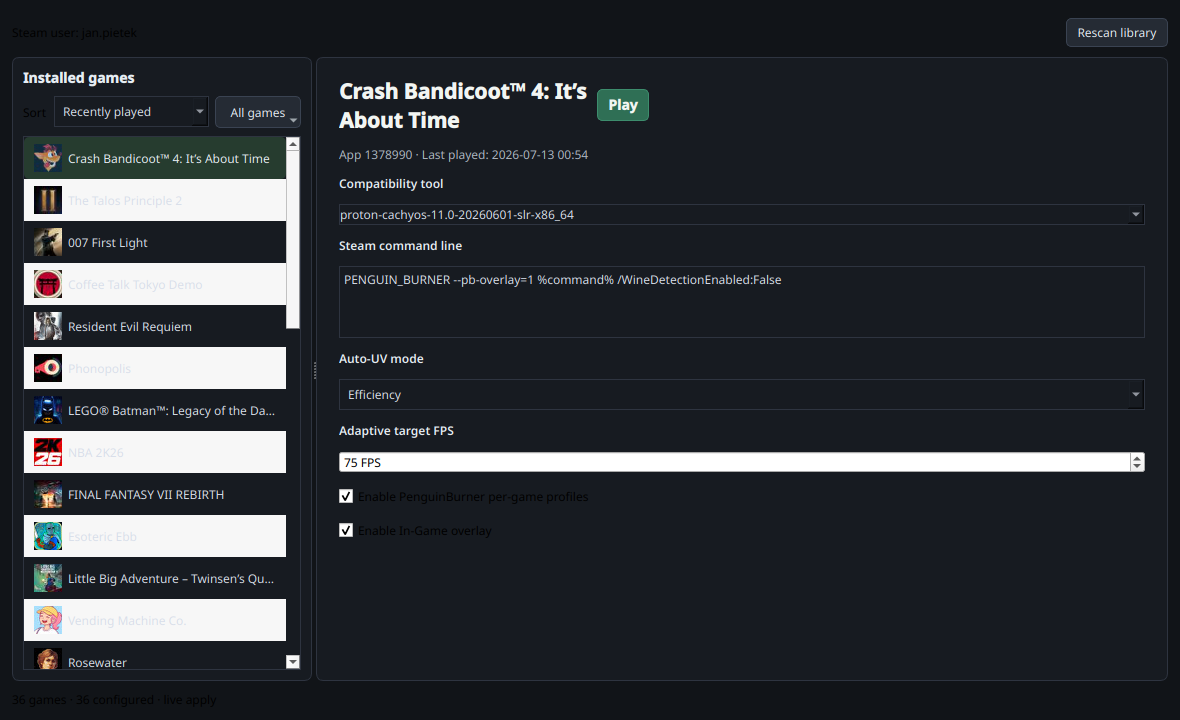
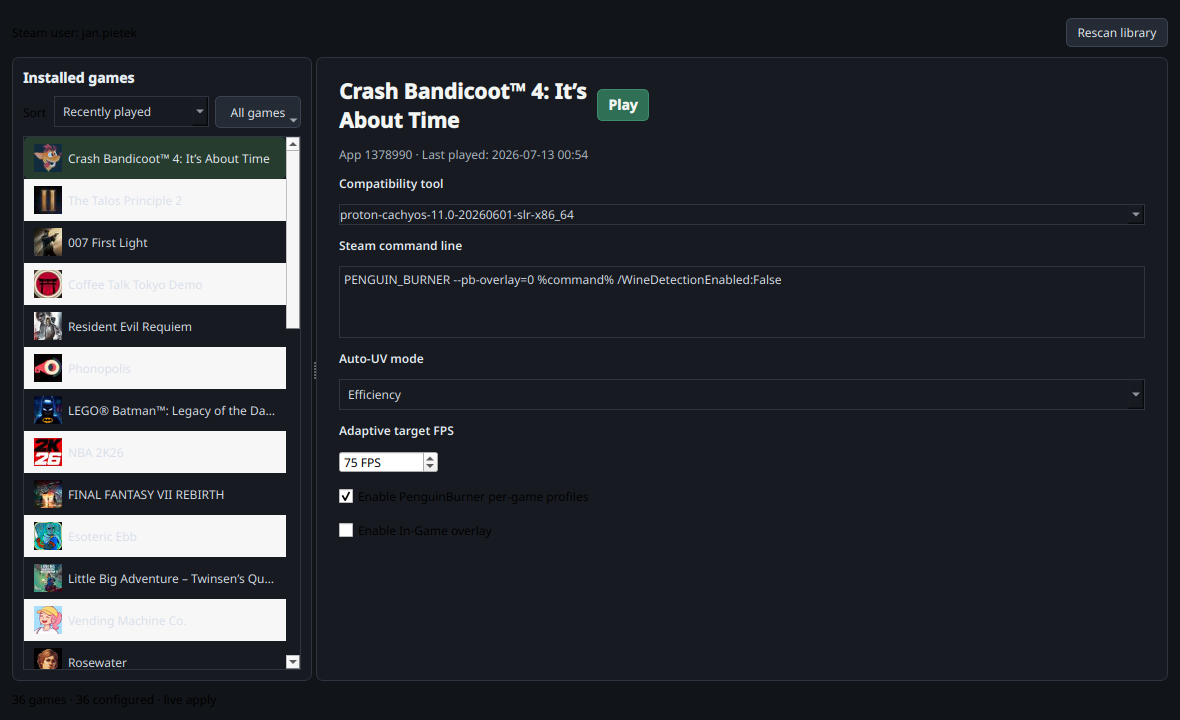
Size the per-game adaptive FPS box to its value, not the pane
The Adaptive target FPS spinbox stretched across the whole Steam details
pane. Give it a fixed width sized for its widest value ("1000 FPS") and
left-align it in its own row. Refresh the README screenshot to match.

Changed region(s): [[0.3661, 0.6111, 0.9763, 0.6722]]

diff --git a/ui/components/steam_panel.py b/ui/components/steam_panel.py
@@ -391,7 +391,17 @@ class SteamPanel:
         self.target_fps_spin.setSuffix(" FPS")
         self.target_fps_spin.setValue(adaptive_target_fps_from_env())
         self.target_fps_spin.setToolTip(target_fps_tooltip)
-        details_layout.addWidget(self.target_fps_spin)
+        # Size the box for its widest value ("1000 FPS") instead of letting it
+        # stretch across the whole details pane.
+        _fps_width = (
+            self.target_fps_spin.fontMetrics().horizontalAdvance("1000 FPS") + 48
+        )
+        self.target_fps_spin.setFixedWidth(_fps_width)
+        target_fps_row = QtWidgets.QHBoxLayout()
+        target_fps_row.setContentsMargins(0, 0, 0, 0)
+        target_fps_row.addWidget(self.target_fps_spin)
+        target_fps_row.addStretch(1)
+        details_layout.addLayout(target_fps_row)
 
         self.enabled_checkbox = QtWidgets.QCheckBox(
             "Enable PenguinBurner per-game profiles"
